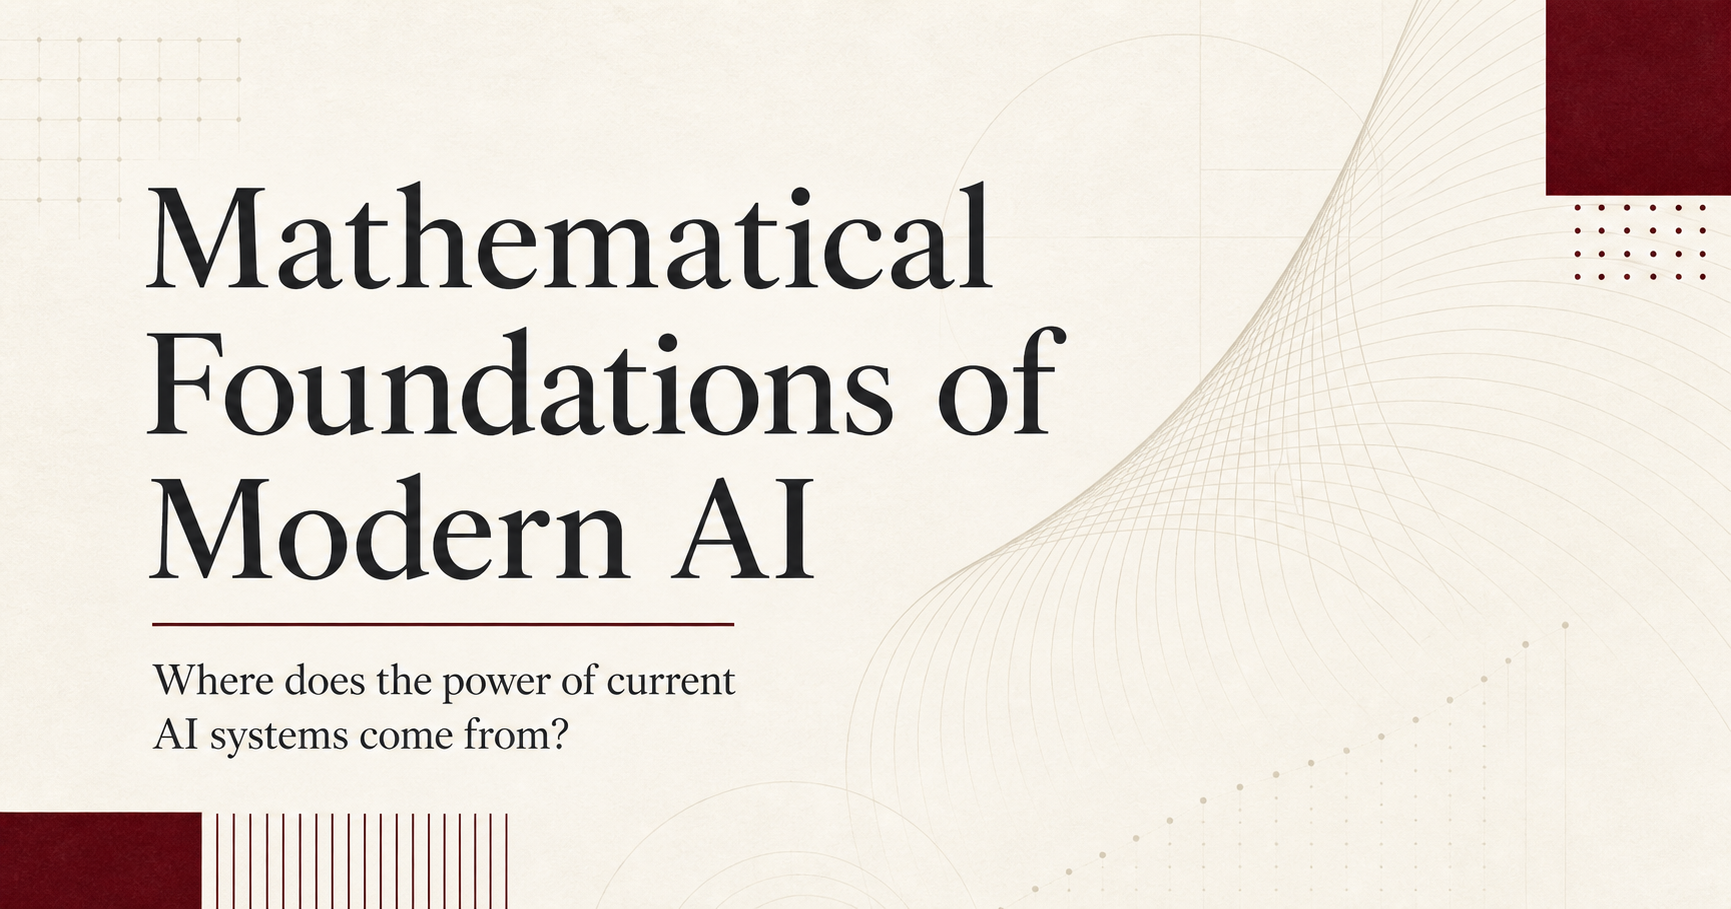
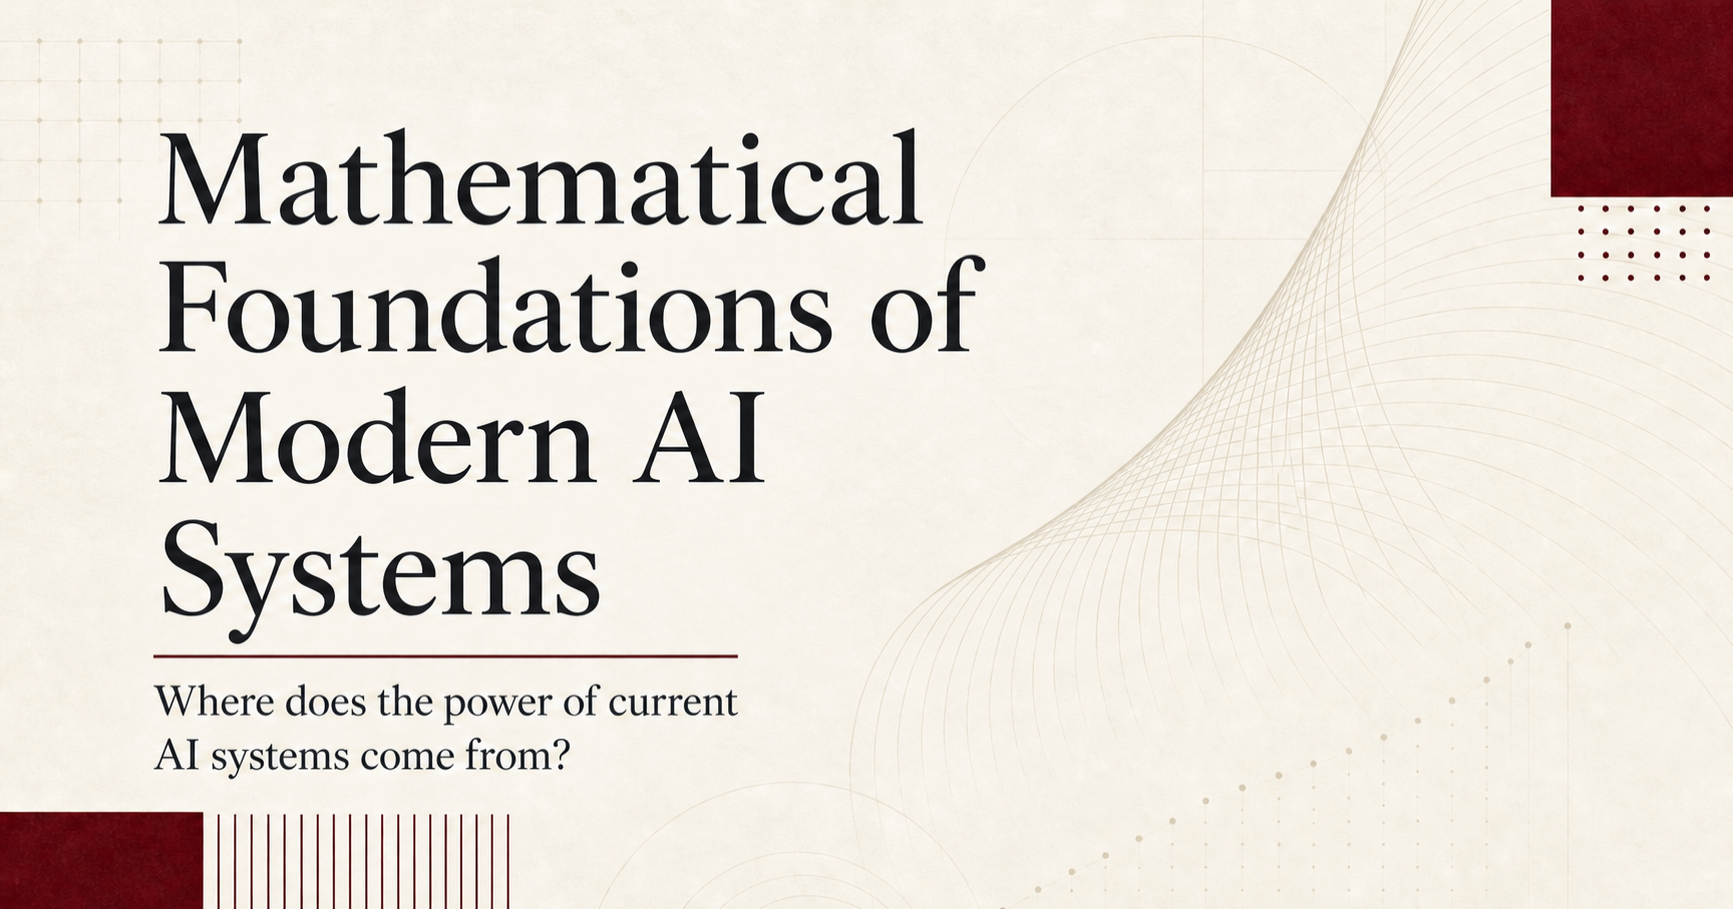
Update course title and class duration

diff --git a/documents/misc_files/homework_template.tex b/documents/misc_files/homework_template.tex
@@ -8,7 +8,7 @@
 \usepackage{fancyhdr}
 
 % ---------- Fill these in ----------
-\newcommand{\coursename}{CMPUT 654: Mathematical Foundations of Modern AI}
+\newcommand{\coursename}{CMPUT 654: Mathematical Foundations of Modern AI Systems}
 \newcommand{\term}{Fall 2026}
 \newcommand{\hwnumber}{1}
 \newcommand{\duedate}{DATE}

diff --git a/documents/assignments/assignment0.tex b/documents/assignments/assignment0.tex
@@ -10,7 +10,7 @@
 \pagestyle{fancy}
 \setlength{\headheight}{14pt}
 \fancyhf{}
-\lhead{CMPUT 654: Mathematical Foundations of Modern AI}
+\lhead{CMPUT 654: Mathematical Foundations of Modern AI Systems}
 \rhead{Homework 0}
 \cfoot{\thepage}
 

diff --git a/_pages/index.md b/_pages/index.md
@@ -2,13 +2,13 @@
 layout: default
 title: Home
 nav_order: 1
-description: "CMPUT 654: Mathematical Foundations of Modern AI"
+description: "CMPUT 654: Mathematical Foundations of Modern AI Systems"
 permalink: /
 ---
 
 <div class="course-kicker">CMPUT 654 · Fall 2026</div>
 
-# Mathematical Foundations of Modern AI
+# Mathematical Foundations of Modern AI Systems
 
 <p class="course-lede">
 This course develops clean mathematical models for the sources of power in modern AI systems. It examines when apparent obstacles become non-obstacles and keeps proved results, empirical evidence, plausible mechanisms, and open questions separate.

diff --git a/_pages/syllabus.md b/_pages/syllabus.md
@@ -9,10 +9,10 @@ permalink: /syllabus/
 
 | | |
 |:--|:--|
-| **Course** | CMPUT 654: Mathematical Foundations of Modern AI |
+| **Course** | CMPUT 654: Mathematical Foundations of Modern AI Systems |
 | **Term** | Fall 2026 |
 | **Instructor** | [Csaba Szepesvári](https://sites.ualberta.ca/~szepesva/) |
-| **Format** | Two 90-minute lectures per week for 13 weeks |
+| **Format** | Two 80-minute lectures per week for 13 weeks |
 | **Meeting time** | Tuesday and Thursday, 3:30–4:50pm |
 | **Room** | ED 2-135 |
 | **Office hours** | Arrange by private message on Slack |

diff --git a/_pages/about.md b/_pages/about.md
@@ -7,7 +7,7 @@ permalink: /about/
 
 # About the course
 
-**CMPUT 654: Mathematical Foundations of Modern AI** is a graduate course taught in Fall 2026.
+**CMPUT 654: Mathematical Foundations of Modern AI Systems** is a graduate course taught in Fall 2026.
 
 The organizing question is:
 

diff --git a/README.md b/README.md
@@ -1,4 +1,4 @@
-# CMPUT 654 — Mathematical Foundations of Modern AI
+# CMPUT 654 — Mathematical Foundations of Modern AI Systems
 
 Source for the Fall 2026 course website.
 
